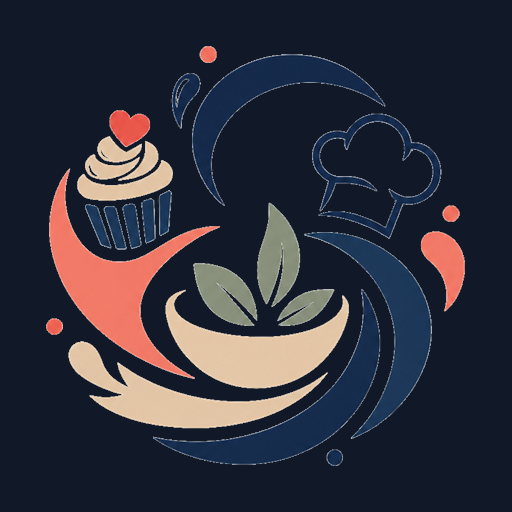
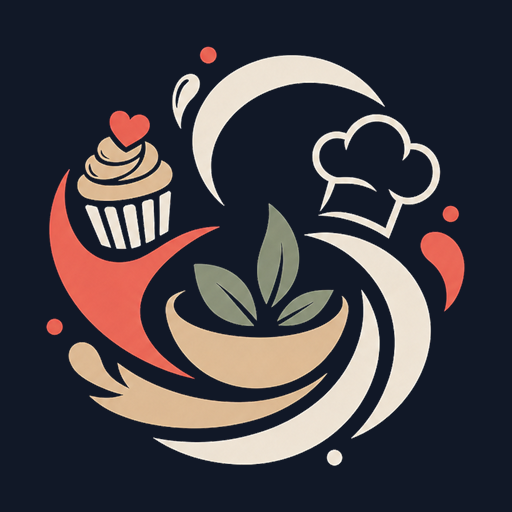
Rectificamos el diseño de PWA

diff --git a/public/assets/branding/README.md b/public/assets/branding/README.md
@@ -18,7 +18,7 @@ mediante filtros ni hacks visuales.
 redibujar ni recolorear la marca para que ocupe mejor el espacio de la pestaña.
 El original permanece intacto.
 
-Los iconos `pwa-icon-*` usan el símbolo original sobre fondo carbón. Las variantes
+Los iconos `pwa-icon-*` usan sobre fondo carbón el símbolo original de
+`logo_mixsabor_dark.png`, cuya variante marfil mantiene el contraste. Las variantes
 `maskable` reducen el símbolo al área segura central para que Android pueda aplicar
-su máscara sin recortarlo. `pwa-icon-192.png` también se utiliza como
-`apple-touch-icon`.
+su máscara sin recortarlo. `pwa-icon-192.png` también se utiliza como `apple-touch-icon`.
